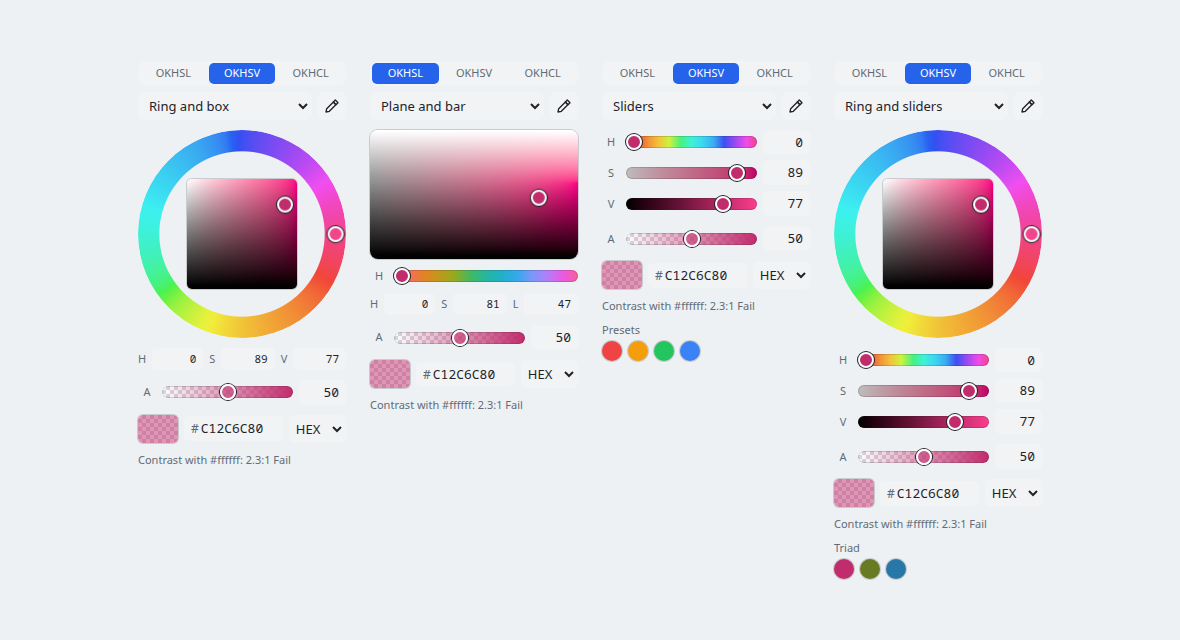
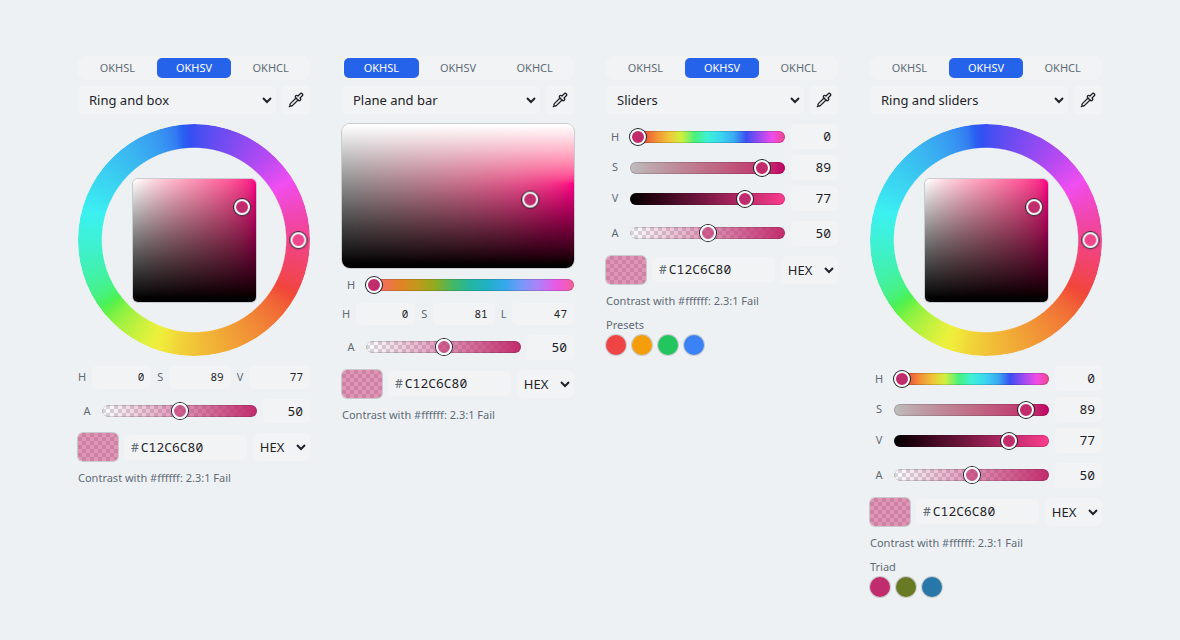
docs(colour-picker): package docs brought up to date (sizes, scrub.ts and press.ts, angular gradient, dragging numbers, --cp-dot and --cp-field-h), layouts picture made again, and its script

diff --git a/src/colour-picker/README.md b/src/colour-picker/README.md
@@ -1,6 +1,6 @@
 # colour-picker
 
-A colour picker for the web with no dependencies and no link to the app it was made in (canvast). It is small (42 KiB minified, 15 KiB gzipped, all of it: maths, picker, gradient editor, styles), fast (a drag does about half a millisecond of work a step), themed by CSS custom properties, and works from `file://`.
+A colour picker for the web with no dependencies and no link to the app it was made in (canvast). It is small (49 KiB minified, 17 KiB gzipped, all of it: maths, picker, gradient editor, styles), fast (a drag does about half a millisecond of work a step), themed by CSS custom properties, and works from `file://`.
 
 * **Three perceptual models:** OKHSL, OKHSV and OKHCL. Every slider stays inside the sRGB gamut, and the same step looks like the same change of colour anywhere.
 * **Four layouts:** a hue ring around a box, a plane with a hue bar, sliders, or the ring with sliders under it.
@@ -8,7 +8,8 @@ A colour picker for the web with no dependencies and no link to the app it was m
 * **Text in three formats:** hex, `rgb()`, `oklch()`. Any of them can be typed or pasted, in any format, with or without `#`.
 * **Eyedropper** where the browser has one, **WCAG contrast** against a colour you choose, **colour harmonies**, **swatch groups** you supply, and a **before and after** preview.
 * **Keyboard and screen reader complete**, **translatable** (every word is an option), **light and dark** by default.
-* **A gradient editor** (`createGradientEditor`): stops on a bar, linear or radial, angle or centre and radius, and this picker for the selected stop.
+* **A gradient editor** (`createGradientEditor`): stops on a bar, linear or radial (and an angular gradient, which the host places), angle or centre and radius, and this picker for the selected stop.
+* **Numbers you can drag:** every number field (the channels, the opacity) changes by dragging it left or right, and `Shift` snaps to round steps. **Swatches copy** by a long press, a right click or `Ctrl/⌘+C`, and a `#` in the hex field copies and pastes cleanly.
 * **Also a custom element:** `<colour-picker>`.
 
 ![the four layouts](docs/layouts.png)
@@ -49,6 +50,8 @@ Without a bundler: `npm run build:picker` (in canvast) writes `dist-picker/colou
 | `gradient.ts` | The gradient editor: `createGradientEditor`. |
 | `element.ts` | `<colour-picker>`, in a shadow root. |
 | `style.ts` | The stylesheet as a string (`PICKER_CSS`) and `ensureStyles()`. |
+| `scrub.ts` | `scrubNumbers`: number fields that change by dragging, with `Shift` snapping to round steps. |
+| `press.ts` | `onLongPress`, `copyToClipboard`, `flashCopied`: the long press that copies a swatch. |
 | `index.ts` | The exports. |
 | `docs/` | [api.md](docs/api.md) options, methods and the maths API · [theming.md](docs/theming.md) · [performance.md](docs/performance.md) · [design.md](docs/design.md) why it is built this way, and what comes next. |
 

diff --git a/src/colour-picker/docs/api.md b/src/colour-picker/docs/api.md
@@ -63,7 +63,7 @@ A bar showing the gradient with a handle per stop: drag a handle to move the sto
 
 | Option | Meaning |
 | --- | --- |
-| `value` | `{ type: "linear" \| "radial", angle, cx, cy, r, stops: [{ offset, colour }] }`. `angle` in degrees (0 runs left to right, 90 top to bottom); `cx`, `cy`, `r` as fractions of the box the gradient is on; offsets 0 to 1; colours `#rrggbb` or `#rrggbbaa`. What angle and centre mean on a shape is the host's business. |
+| `value` | `{ type: "linear" \| "radial" \| "angular", angle, cx, cy, r, stops: [{ offset, colour }] }`. `angle` in degrees (0 runs left to right, 90 top to bottom); `cx`, `cy`, `r` as fractions of the box the gradient is on; offsets 0 to 1; colours `#rrggbb` or `#rrggbbaa`. What angle and centre mean on a shape is the host's business. `"angular"` goes round the centre, the first stop at `angle`; the editor's own Linear and Radial switch offers only the other two, so the host chooses it. |
 | `picker` | Options for the stop's picker (`model`, `view`, `format`, `groups`, `labels`, `size`, `display`, `onModel`, …). Transparency is always on. |
 | `labels` | Every word of the editor (`GradientLabels`). |
 | `minStops`, `maxStops` | The limits on the number of stops. |
@@ -91,6 +91,10 @@ Colours here are `Rgb = [r, g, b]` bytes, and a model's colour is a `Triple = { 
 | `contrastRatio(a, b)` | WCAG 2 contrast of two opaque colours, 1 to 21. |
 | `harmonies(rgb, kind, hue?)` | The colours of a harmony, turned in OKHCL so each stays inside sRGB. |
 | `prefersDarkText(rgb)` | Whether black text reads better than white on this colour. |
+
+## Dragging numbers
+
+The number fields of the picker (the channels and the opacity) change by dragging them left or right; `Shift` snaps to round steps worked out from the field's range. A press that does not move goes into the field. `scrubNumbers(root, hint?)` does the same for any number fields under `root` (a host's own fields), and `hint` is their tooltip.
 
 ## Copying and pasting
 

diff --git a/src/colour-picker/docs/theming.md b/src/colour-picker/docs/theming.md
@@ -18,8 +18,10 @@ The defaults sit in `:where(.cp)`, which has no specificity, so **any rule of yo
 | Type | `--cp-text`, `--cp-text-sm` | 13 px, 11 px | Body and small text. |
 | | `--cp-font`, `--cp-mono` | system UI, system mono | Text and numbers. |
 | Shape | `--cp-radius`, `--cp-radius-sm` | 8 px, 5 px | Boxes and bars; fields and buttons. |
+| | `--cp-dot` | `50%` | The corner radius of the round handles and swatches (a host with sharp corners sets `0`). |
 | Space | `--cp-gap`, `--cp-gap-sm`, `--cp-pad` | 10 px, 6 px, 0 | Between sections, inside them, around the picker. |
 | Size | `--cp-thumb`, `--cp-bar`, `--cp-swatch` | 16 px, 12 px, 20 px | The handles, the slider bars, the swatches. |
+| | `--cp-field-h` | 0 | The least height of the number fields, the text field and the switches (a host with a density setting sets it). |
 | | `--cp-size` | from the `size` option | The ring. Set the option, not this. |
 
 ## Examples

diff --git a/src/colour-picker/docs/performance.md b/src/colour-picker/docs/performance.md
@@ -24,7 +24,7 @@ Measured with `npm run bench:picker` (Node, one core of a laptop CPU; the browse
 
 One `toRgb` or `fromRgb`: about 1 µs. In a browser, a hue step through the real input path (the handler: conversion, text, thumbs, tracks) is **0.47 ms**, and the frame after it (the box) fits one 16.7 ms frame with room to spare.
 
-Size: 42 KiB minified, 15 KiB gzipped, with the gradient editor (the picker alone is 33 KiB and 12.6 KiB).
+Size: 49 KiB minified, 17 KiB gzipped, with the gradient editor (the picker alone is 38 KiB and 14 KiB).
 
 ## Keeping it fast
 
